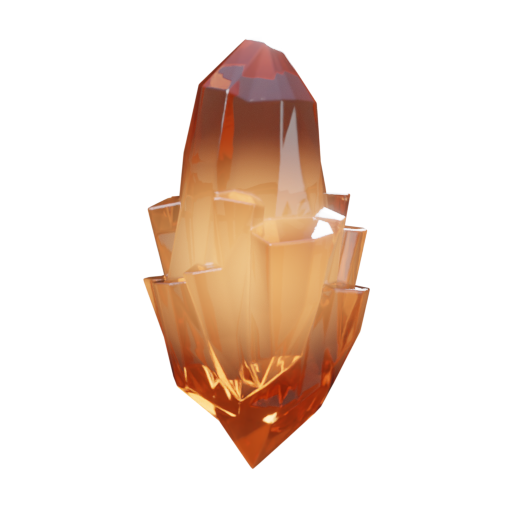
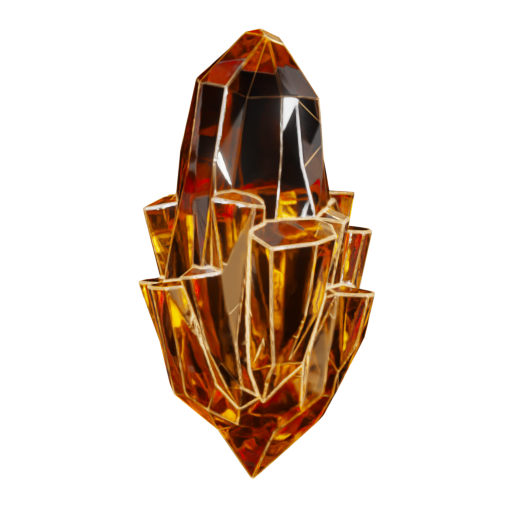
feat: Arcane replaces Platinum; v7 tier crystals
The completion tier is now Arcane, a violet crystal, in code, strings
(six languages) and the resource name. Bronze, silver and gold use the
approved glassier, more vivid v7 art; Arcane uses Vivid Soft.

Changed region(s): [[0.25, 0.0312, 0.75, 0.9375]]

diff --git a/Tests/NXLibraryCoreTests/AchievementTierTests.swift b/Tests/NXLibraryCoreTests/AchievementTierTests.swift
@@ -26,7 +26,7 @@ final class AchievementTierTests: XCTestCase {
     }
 
     func testBoardOrderIsRarestFirst() {
-        XCTAssertEqual(AchievementTier.allCases, [.platinum, .gold, .silver, .bronze])
+        XCTAssertEqual(AchievementTier.allCases, [.arcane, .gold, .silver, .bronze])
     }
 
     func testRowTierFollowsPercent() {
@@ -42,16 +42,16 @@ final class AchievementTierTests: XCTestCase {
         XCTAssertEqual(summary.tierCounts[.gold], TierCount(unlocked: 1, total: 2))
         XCTAssertEqual(summary.tierCounts[.silver], TierCount(unlocked: 1, total: 1))
         XCTAssertEqual(summary.tierCounts[.bronze], TierCount(unlocked: 0, total: 1))
-        XCTAssertEqual(summary.tierCounts[.platinum], TierCount(unlocked: 0, total: 1))
+        XCTAssertEqual(summary.tierCounts[.arcane], TierCount(unlocked: 0, total: 1))
         XCTAssertTrue(summary.hasRarity)
     }
 
-    func testPlatinumOnlyAtHundredPercent() {
+    func testArcaneOnlyAtHundredPercent() {
         let summary = AchievementSummary(achievements: [a("A", at: 1), a("B", at: 2)], percents: ["A": 50])
-        XCTAssertEqual(summary.tierCounts[.platinum], TierCount(unlocked: 1, total: 1))
+        XCTAssertEqual(summary.tierCounts[.arcane], TierCount(unlocked: 1, total: 1))
     }
 
-    func testNoAchievementsNoPlatinum() {
+    func testNoAchievementsNoArcane() {
         let summary = AchievementSummary(achievements: [], percents: [:])
         for tier in AchievementTier.allCases {
             XCTAssertEqual(summary.tierCounts[tier], TierCount(unlocked: 0, total: 0), "\(tier)")
@@ -65,7 +65,7 @@ final class AchievementTierTests: XCTestCase {
         for tier in [AchievementTier.gold, .silver, .bronze] {
             XCTAssertEqual(summary.tierCounts[tier], TierCount(unlocked: 0, total: 0), "\(tier)")
         }
-        XCTAssertEqual(summary.tierCounts[.platinum], TierCount(unlocked: 0, total: 1))
+        XCTAssertEqual(summary.tierCounts[.arcane], TierCount(unlocked: 0, total: 1))
         XCTAssertFalse(summary.hasRarity)
     }
 
@@ -74,13 +74,14 @@ final class AchievementTierTests: XCTestCase {
         XCTAssertEqual(summary.lastUnlockedAt, Date(timeIntervalSince1970: 20))
     }
 
-    func testDisplayNamesAreTheClassicOnes() {
+    /// The completion tier is Arcane (violet), no longer Platinum; the rarity tiers keep their classic names.
+    func testDisplayNames() {
         let english = AppLocale(language: .english, region: "US")
         XCTAssertEqual(AchievementTier.allCases.map { $0.displayName(context: english) },
-                       ["Platinum", "Gold", "Silver", "Bronze"])
+                       ["Arcane", "Gold", "Silver", "Bronze"])
         let italian = AppLocale(language: .italian, region: "IT")
         XCTAssertEqual(AchievementTier.allCases.map { $0.displayName(context: italian) },
-                       ["Platino", "Oro", "Argento", "Bronzo"])
+                       ["Arcano", "Oro", "Argento", "Bronzo"])
     }
 
     func testEveryTierHasArt() throws {

diff --git a/Sources/NXLibraryCore/Models/AchievementTier.swift b/Sources/NXLibraryCore/Models/AchievementTier.swift
@@ -1,17 +1,17 @@
 import Foundation
 
-/// A tier crystal, as PS5 trophies: one Platinum per game for unlocking everything, and Gold, Silver or Bronze
-/// for each achievement from how many Steam players have it. Declared rarest first: the Achievements screen's
-/// board shows them in this order.
+/// A tier crystal, as PS5 trophies: one Arcane per game for unlocking everything (the violet crystal, where
+/// PS5 has Platinum), and Gold, Silver or Bronze for each achievement from how many Steam players have it.
+/// Declared rarest first: the Achievements screen's board shows them in this order.
 public enum AchievementTier: CaseIterable, Sendable {
-    case platinum, gold, silver, bronze
+    case arcane, gold, silver, bronze
 
     /// Fewer than one player in ten.
     public static let goldBelow = 10.0
     /// Fewer than three in ten; the rest is bronze.
     public static let silverBelow = 30.0
 
-    /// An achievement's tier from Steam's global rarity (0–100); nil while unknown. Never platinum.
+    /// An achievement's tier from Steam's global rarity (0–100); nil while unknown. Never arcane.
     public static func forPercent(_ percent: Double?) -> AchievementTier? {
         guard let raw = percent else { return nil }
         // The screen shows one decimal: 9.96 reads "10.0%", so it must not be Gold.
@@ -21,17 +21,17 @@ public enum AchievementTier: CaseIterable, Sendable {
         return .bronze
     }
 
-    /// The tier's crystal: a prerendered 512 px PNG (`.superpowers/arcane`, recipe v2, tight crop), large enough
+    /// The tier's crystal: a prerendered 512 px PNG (`.superpowers/arcane`, recipe v7, tight crop), large enough
     /// for the achievement detail, in Core's resources; found as the translations are (the installed app's bundle
     /// first); nil only if it is missing.
     public var imageURL: URL? {
         L10n.resources()?.url(forResource: "crystal-\(self)", withExtension: "png")
     }
 
-    /// The tier's name in the app's language (or `context`'s): Platinum, Gold, Silver, Bronze.
+    /// The tier's name in the app's language (or `context`'s): Arcane, Gold, Silver, Bronze.
     public func displayName(context: AppLocale? = nil) -> String {
         switch self {
-        case .platinum: return L10n.text("Platinum", context: context)
+        case .arcane: return L10n.text("Arcane", context: context)
         case .gold: return L10n.text("Gold", context: context)
         case .silver: return L10n.text("Silver", context: context)
         case .bronze: return L10n.text("Bronze", context: context)

diff --git a/Sources/NXLibrary/Views/Spotlight/AchievementsScreen.swift b/Sources/NXLibrary/Views/Spotlight/AchievementsScreen.swift
@@ -159,8 +159,8 @@ struct AchievementsScreen: View {
     }
 
     /// The completion as one gauge, read top to bottom: the large percentage, its bar, the count and the newest
-    /// unlock, all left-aligned and as wide as the widest of them. Beside it Platinum, Gold, Silver, Bronze with
-    /// unlocked/total under each, as PS5 trophies, dimmed while not earned (only Platinum until Steam's rarity
+    /// unlock, all left-aligned and as wide as the widest of them. Beside it Arcane, Gold, Silver, Bronze with
+    /// unlocked/total under each, as PS5 trophies, dimmed while not earned (only Arcane until Steam's rarity
     /// arrives).
     private var progress: some View {
         HStack(alignment: .center, spacing: canvas.u(48)) {
@@ -196,7 +196,7 @@ struct AchievementsScreen: View {
 
     private var board: some View {
         let counts = summary.tierCounts
-        let tiers = summary.hasRarity ? AchievementTier.allCases : [.platinum]
+        let tiers = summary.hasRarity ? AchievementTier.allCases : [.arcane]
         return HStack(alignment: .top, spacing: canvas.u(26)) {
             ForEach(tiers, id: \.self) { tier in
                 let count = counts[tier] ?? TierCount(unlocked: 0, total: 0)

diff --git a/Sources/NXLibraryCore/Models/AchievementSummary.swift b/Sources/NXLibraryCore/Models/AchievementSummary.swift
@@ -59,11 +59,11 @@ public struct AchievementSummary: Equatable, Sendable {
         Array((unlockedRows.isEmpty ? lockedRows : unlockedRows).compactMap(\.icon).prefix(3))
     }
 
-    /// Unlocked and total per tier. Platinum is one per game, lit when everything is unlocked (0/0 without
+    /// Unlocked and total per tier. Arcane is one per game, lit when everything is unlocked (0/0 without
     /// achievements); the others count the achievements whose rarity is known.
     public var tierCounts: [AchievementTier: TierCount] {
         var counts: [AchievementTier: TierCount] = [
-            .platinum: TierCount(unlocked: total > 0 && unlocked == total ? 1 : 0, total: total > 0 ? 1 : 0),
+            .arcane: TierCount(unlocked: total > 0 && unlocked == total ? 1 : 0, total: total > 0 ? 1 : 0),
         ]
         for tier in [AchievementTier.gold, .silver, .bronze] {
             counts[tier] = TierCount(unlocked: unlockedRows.filter { $0.tier == tier }.count,

diff --git a/Sources/NXLibrary/Views/Spotlight/TierCrystal.swift b/Sources/NXLibrary/Views/Spotlight/TierCrystal.swift
@@ -2,7 +2,7 @@ import SwiftUI
 import AppKit
 import NXLibraryCore
 
-/// A tier's crystal (Platinum, Gold, Silver, Bronze), from the prerendered art in Core's resources. Dimmed:
+/// A tier's crystal (Arcane, Gold, Silver, Bronze), from the prerendered art in Core's resources. Dimmed:
 /// a tier not earned yet, or a locked achievement's tier — gray and faint, so the lit ones read first.
 /// Draws nothing if the art is missing.
 struct TierCrystal: View {

diff --git a/docs/file-map.md b/docs/file-map.md
@@ -717,7 +717,7 @@ Quando si aggiunge, rinomina o rimuove un file versionato, aggiornare la sua rig
 | [SteamAchievementReader.swift](../Sources/NXLibraryCore/Services/Steam/SteamAchievementReader.swift) | Achievement di un gioco per l’account corrente: schema (nomi nella lingua dell’app, poi inglese; nascosti; icone) e soli `AchievementTimes` del file delle statistiche; nessun file, account o statistiche: nessun dato. |
 | [SteamAchievementRarity.swift](../Sources/NXLibraryCore/Services/Steam/SteamAchievementRarity.swift) | Rarità pubblica (`GetGlobalAchievementPercentagesForApp`, senza chiave) e indirizzi delle icone sul CDN di Steam, solo per nomi di file semplici. |
 | [AchievementSummary.swift](../Sources/NXLibraryCore/Models/AchievementSummary.swift) | Riepilogo puro per la tile e la schermata: conteggi, percentuale, icone recenti, conteggi per tier, sbloccati di recente, ultimo sblocco, filtri e ordini; maschera i nascosti ancora bloccati. |
-| [AchievementTier.swift](../Sources/NXLibraryCore/Models/AchievementTier.swift) | Tier a cristallo come i trofei PS5: Platino per il gioco completato, Oro / Argento / Bronzo per rarità Steam (<10%, <30%, il resto); nomi tradotti e PNG nelle risorse del Core. |
+| [AchievementTier.swift](../Sources/NXLibraryCore/Models/AchievementTier.swift) | Tier a cristallo come i trofei PS5: Arcano (viola, al posto del Platino) per il gioco completato, Oro / Argento / Bronzo per rarità Steam (<10%, <30%, il resto); nomi tradotti e PNG nelle risorse del Core. |
 | [AchievementsScreenState.swift](../Sources/NXLibraryCore/Models/AchievementsScreenState.swift) | Filtro e selezione della schermata Achievements: due colonne, bordi fermi, LB/RB che girano i filtri. |
 | [SteamAchievementsStore.swift](../Sources/NXLibrary/Services/SteamAchievementsStore.swift) | Legge gli achievement fuori dal thread principale (selezione, apertura della schermata e, per il gioco selezionato, fine di una sessione Steam: subito e dopo un minuto), uno per AppID alla volta; tiene gli ultimi 16 giochi e aggiunge la rarità quando arriva. |
 | [DetailsAchievementsCard.swift](../Sources/NXLibrary/Views/Detail/DetailsAchievementsCard.swift) | Card Achievements in cima alla colonna destra della pagina, sopra il pannello Details; prende il focus e apre la schermata. |
